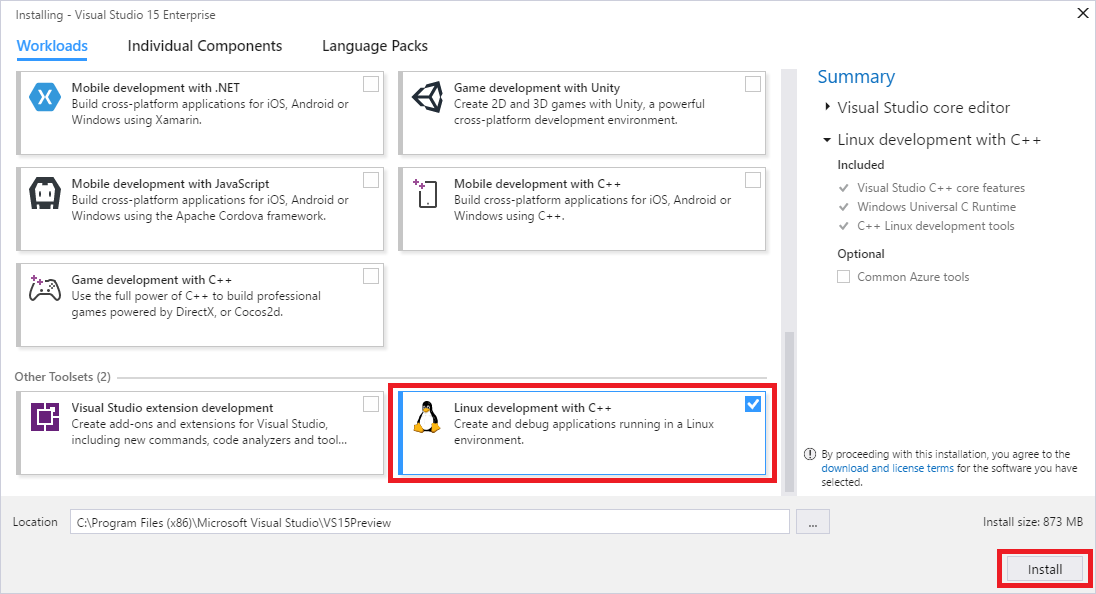
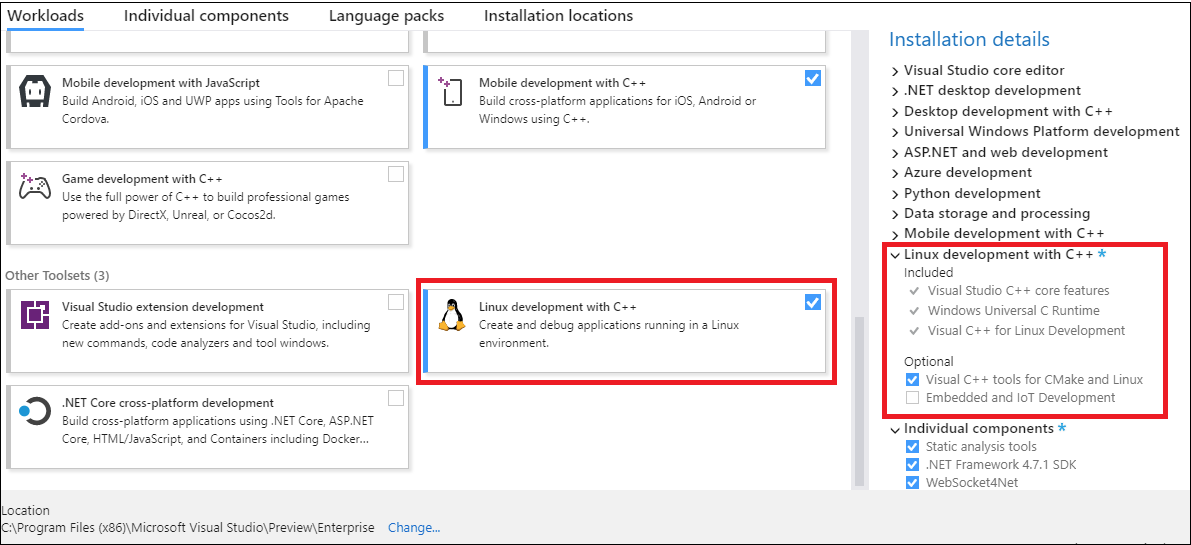
updates per customer issues

Changed region(s): [[0.0, 0.0, 1.0, 1.0], [0.7445, 0.0624, 0.8996, 0.0936]]

diff --git a/docs/windows/walkthrough-creating-and-using-a-static-library-cpp.md b/docs/windows/walkthrough-creating-and-using-a-static-library-cpp.md
@@ -1,7 +1,7 @@
 ---
 title: "Walkthrough: Creating and Using a Static Library (C++) | Microsoft Docs"
 ms.custom: "get-started-article"
-ms.date: "07/12/2018"
+ms.date: "11/04/2016"
 ms.technology: ["cpp-windows"]
 ms.topic: "conceptual"
 dev_langs: ["C++"]
@@ -16,38 +16,32 @@ This step-by-step walkthrough shows how to create a static library (.lib file) f
   
  This walkthrough covers these tasks:  
   
--   [Creating a static library project](#CreateLibProject)  
+-   [Creating a static library project](#BKMK_CreateLibProject)  
   
--   [Adding a class to the static library](#AddClassToLib)  
+-   [Adding a class to the static library](#BKMK_AddClassToLib)  
   
--   [Creating a C++ console app that references the static library](#CreateAppToRefTheLib)  
+-   [Creating a C++ console app that references the static library](#BKMK_CreateAppToRefTheLib)  
   
--   [Using the functionality from the static library in the app](#UseLibInApp)  
+-   [Using the functionality from the static library in the app](#BKMK_UseLibInApp)  
   
--   [Running the app](#RunApp)  
+-   [Running the app](#BKMK_RunApp)  
   
 ## Prerequisites  
  An understanding of the fundamentals of the C++ language.  
   
-##  <a name="CreateLibProject"></a> Creating a static library project  
+##  <a name="BKMK_CreateLibProject"></a> Creating a static library project  
   
 #### To create a static library project  
   
 1.  On the menu bar, choose **File**, **New**, **Project**.  
   
-2. In the left pane of the **New Project** dialog box, expand **Installed, Visual C++**, and then select **Windows Desktop**.
+2.  In the left pane of the **New Project** dialog box, expand **Installed**, **Visual C++**, **Windows Desktop**.  
   
-3. In the center pane, select **Windows Desktop Wizard**.  
+3.  In the center pane, select **Windows Desktop Wizard**.  
   
 4.  Specify a name for the project—for example, **MathFuncsLib**—in the **Name** box. Specify a name for the solution—for example, **StaticLibrary**—in the **Solution Name** box. Choose the **OK** button.  
   
-5. Under **Application type**, select Static Library (.lib).  
-  
-6. Under **Additional Options**, un-check the **Precompiled header** check box.
-  
-7. Choose **OK** to create the project.  
- 
-##  <a name="AddClassToLib"></a> Adding a class to the static library  
+##  <a name="BKMK_AddClassToLib"></a> Adding a class to the static library  
   
 #### To add a class to the static library  
   
@@ -68,30 +62,33 @@ This step-by-step walkthrough shows how to create a static library (.lib file) f
     > [!NOTE]
     >  When you build on the Visual Studio command line, you must build the program in two steps. First, run **cl /c /EHsc MathFuncsLib.cpp** to compile the code and create an object file that's named **MathFuncsLib.obj**. (The **cl** command invokes the compiler, Cl.exe, and the **/c** option specifies compile without linking. For more information, see [/c (Compile Without Linking)](../build/reference/c-compile-without-linking.md).) Second, run **lib MathFuncsLib.obj** to link the code and create the static library **MathFuncsLib.lib**. (The **lib** command invokes the Library Manager, Lib.exe. For more information, see [LIB Reference](../build/reference/lib-reference.md).)  
   
-##  <a name="CreateAppToRefTheLib"></a> Creating a C++ console app that references the static library  
+##  <a name="BKMK_CreateAppToRefTheLib"></a> Creating a C++ console app that references the static library  
   
 #### To create a C++ console app that references the static library  
   
 1.  On the menu bar, choose **File**, **New**, **Project**.  
   
-2. In the left pane of the **New Project** dialog box, expand **Installed, Visual C++**, and then select **Windows Desktop**.  
-
-3. In the center pane, select **Windows Desktop Wizard**.  
+2.  In the left pane, under **Visual C++**, select **Win32**.  
+  
+3.  In the center pane, select **Win32 Console Application**.  
   
 4.  Specify a name for the project—for example, **MyExecRefsLib**—in the **Name** box. In the drop-down list next to **Solution**, select **Add to Solution**. This adds the new project to the solution that contains the static library. Choose the **OK** button.  
-5. Under **Application type**, select **Console Application (.exe)**.
-
-6. Under **Additioal Options**, un-check the **Precompiled header** check box.
-
-7. Choose **OK** to create the project.  
   
-##  <a name="UseLibInApp"></a> Using the functionality from the static library in the app  
+5.  On the **Overview** page of the **Win32 Application Wizard** dialog box, choose the **Next** button.  
+  
+6.  On the **Application Settings** page, under **Application type**, select **Console application**.  
+  
+7.  On the **Application Settings** page, under **Additional options**, clear the **Precompiled header** check box.  
+  
+8.  Choose the **Finish** button to create the project.  
+  
+##  <a name="BKMK_UseLibInApp"></a> Using the functionality from the static library in the app  
   
 #### To use the functionality from the static library in the app  
   
 1.  After you create a console app, an empty program is created for you. The name for the source file is the same as the name that you chose earlier. In this example, it's named **MyExecRefsLib.cpp**.  
   
-2.  Before you can use the math routines in the static library, you must reference it. To do this, open the shortcut menu for the MyExecRefsLib project in **Solution Explorer**, and then choose **Add, Reference**.  
+2.  Before you can use the math routines in the static library, you must reference it. To do this, open the shortcut menu for the **MyExecRefsLib** project in **Solution Explorer**, and then choose **References**. In the **MyExecRefsLibProperty Pages** dialog box, expand the **Common Properties** node, select **Framework and References**, and then choose the **Add New Reference** button. For more information about the **References** dialog box, see [Adding references](../ide/adding-references-in-visual-cpp-projects.md).  
   
 3.  The **Add Reference** dialog box lists the libraries that you can reference. The **Projects** tab lists the projects in the current solution and any libraries that they contain. On the **Projects** tab, select the **MathFuncsLib** check box, and then choose the **OK** button.  
   
@@ -105,7 +102,7 @@ This step-by-step walkthrough shows how to create a static library (.lib file) f
   
 6.  Build the executable by choosing **Build**, **Build Solution** on the menu bar.  
   
-##  <a name="RunApp"></a> Running the app  
+##  <a name="BKMK_RunApp"></a> Running the app  
   
 #### To run the app  
   

diff --git a/docs/linux/download-install-and-setup-the-linux-development-workload.md b/docs/linux/download-install-and-setup-the-linux-development-workload.md
@@ -1,9 +1,9 @@
 ---
 title: "Download, install, and setup the Linux workload | Microsoft Docs"
 ms.custom: ""
-ms.date: "11/16/2016"
+ms.date: "07/20/2018"
 ms.technology: ["cpp-linux"]
-ms.tgt_pltfrm: "Linux"
+ms.tgt_pltfrm: "Linux
 ms.topic: "conceptual"
 ms.assetid: e11b40b2-f3a4-4f06-b788-73334d58dfd9
 author: "corob-msft"
@@ -14,13 +14,15 @@ ms.workload: ["cplusplus", "linux"]
 # Download, install, and setup the Linux workload
 
 ## Visual Studio setup
-1. Start the Visual Studio installer and select the **Linux development with C++** workload.
+1. Start the Visual Studio installer, choose the **Workloads** tab, then scroll down to **Other toolsets** and select the **Linux development with C++** workload.
 
-   ![Visual C++ for Linux Development extension](media/linuxworkload.png)
+   ![Visual C++ for Linux Development workload](media/linuxworkload.png)
 
-2. Click **Install** to continue with the installation.
+1. Select any Optional components that you require.
 
-## Linux setup
+1. Click **Install** to continue with the installation.
+
+## Linux setupcc
 The target Linux computer must have **openssh-server**, **g++**, **gdb**, and **gdbserver** installed, and the ssh daemon must be running.  If these are not already present, you can install them as follows:
  
 1. At a shell prompt on your Linux computer, run:
